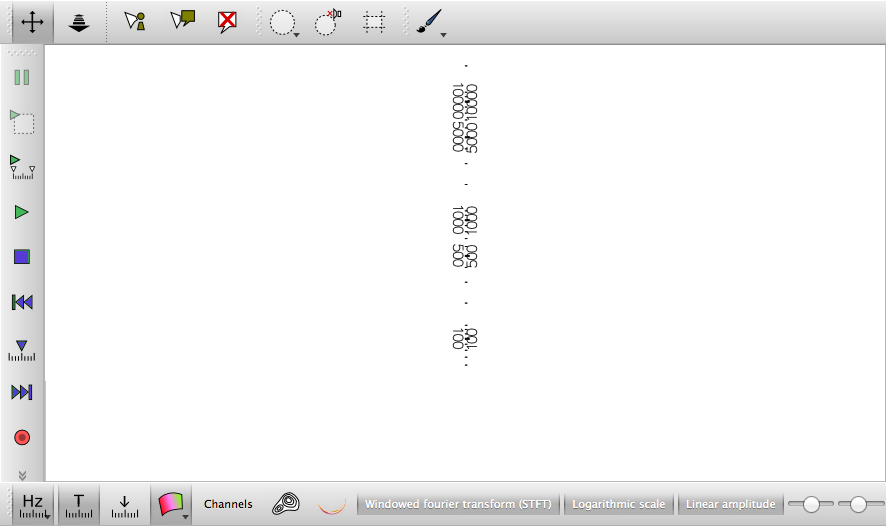
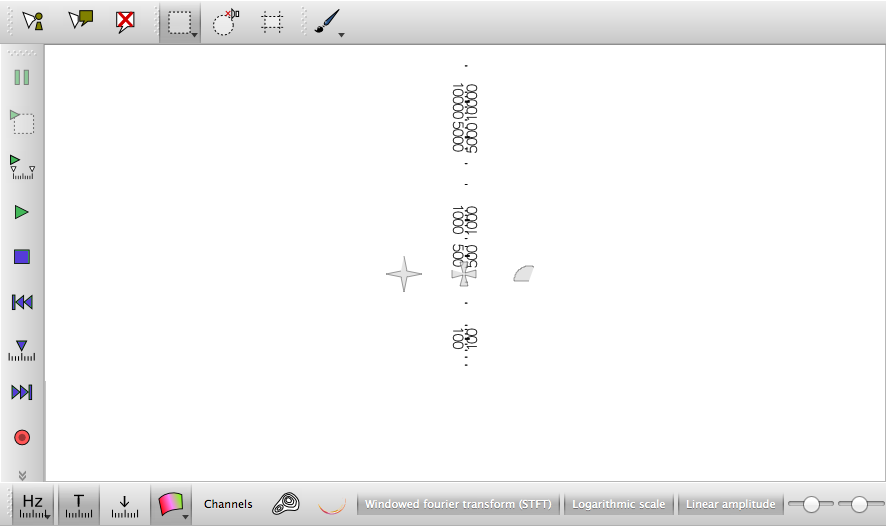
opengui tests against the new layout on Mac

diff --git a/sonicawe-end2end/common/sawetest.h b/sonicawe-end2end/common/sawetest.h
@@ -104,16 +104,23 @@ protected slots: // not private because that would make them execute as test cas
 };
 
 
+typedef std::vector<const char*> ArgvectorT;
+template<typename T> void TestClassArguments(ArgvectorT&) {}
+
 // expanded QTEST_MAIN but for Sawe::Application
 #define SAWETEST_MAIN(TestClass)                               \
     int main(int argc, char *argv[])                           \
     {                                                          \
-        std::vector<const char*> argvector(argc+2);            \
+        ArgvectorT argvector(argc);                            \
         for (int i=0; i<argc; ++i)                             \
             argvector[i] = argv[i];                            \
                                                                \
-        argvector[argc++] = "--use_saved_state=0";             \
-        argvector[argc++] = "--skip_update_check=1";           \
+        argvector.push_back("--use_saved_state=0");            \
+        argvector.push_back("--skip_update_check=1");          \
+        argvector.push_back("--skipfeature=overlay_navigation");\
+                                                               \
+        TestClassArguments<TestClass>( argvector );            \
+        argc = argvector.size();                               \
                                                                \
         Sawe::Application application(argc, (char**)&argvector[0]); \
         QTEST_DISABLE_KEYPAD_NAVIGATION                        \

diff --git a/sonicawe-end2end/common/compareimages.cpp b/sonicawe-end2end/common/compareimages.cpp
@@ -75,15 +75,20 @@ void CompareImages::
     QPixmap pixmap(mainwindow->size());
     QGL::setPreferredPaintEngine(QPaintEngine::OpenGL);
     QPainter painter(&pixmap);
-    // Note that Microsoft Windows does not allow an application to interrupt
-    // what the user is currently doing in another application.
+
+    // update layout by calling render
     mainwindow->activateWindow();
     mainwindow->raise();
     mainwindow->render(&painter);
-    QImage glimage = glwidget->grabFrameBuffer();
 
+    // draw OpenGL window
     QPoint p2 = glwidget->mapTo( mainwindow, QPoint() );
+    glwidget->swapBuffers();
+    QImage glimage = glwidget->grabFrameBuffer();
     painter.drawImage(p2, glimage);
+
+    // draw Qt widgets that are on top of the opengl window
+//    mainwindow->render(&painter);
 
     pixmap.save(resultFileName);
 }

diff --git a/sonicawe-end2end/opengui/opengui.cpp b/sonicawe-end2end/opengui/opengui.cpp
@@ -97,6 +97,24 @@ void OpenGui::
 }
 
 
+bool arguments_to_remove(const char* a)
+{
+    return 0 == strcmp(a,"--skipfeature=overlay_navigation");
+}
+
+
+template<> void TestClassArguments<OpenGui>(ArgvectorT& argvector)
+{
+    do
+    {
+        ArgvectorT::iterator i = std::find_if(argvector.begin(), argvector.end(), arguments_to_remove);
+        if (i == argvector.end())
+            break;
+        argvector.erase(i);
+    } while (true);
+}
+
+
 SAWETEST_MAIN(OpenGui)
 
 #include "opengui.moc"
